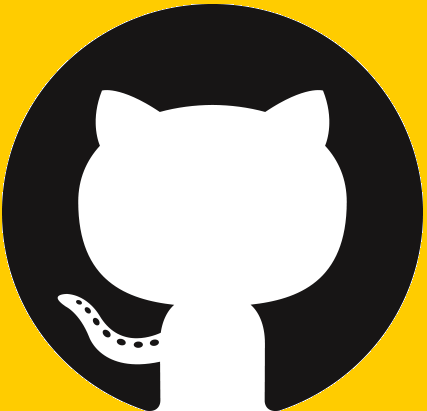
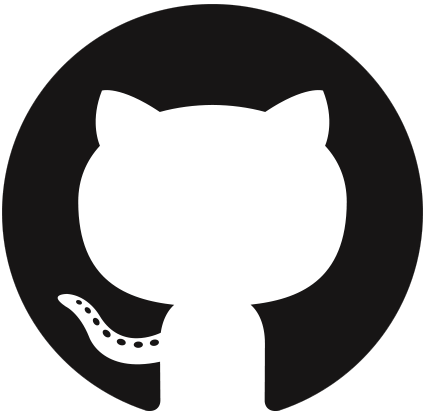
new background

Changed region(s): [[0.0, 0.0, 1.0, 1.0]]

diff --git a/public/assets/css/style.css b/public/assets/css/style.css
@@ -1,6 +1,6 @@
 body {
   background-color: #ffcc00;
-  background-image: url("../images/bargar.jpg");
+  background-image: url("../images/bargar.png");
   background-position: center center;
   background-size: 100%;
   background-repeat: no-repeat;
